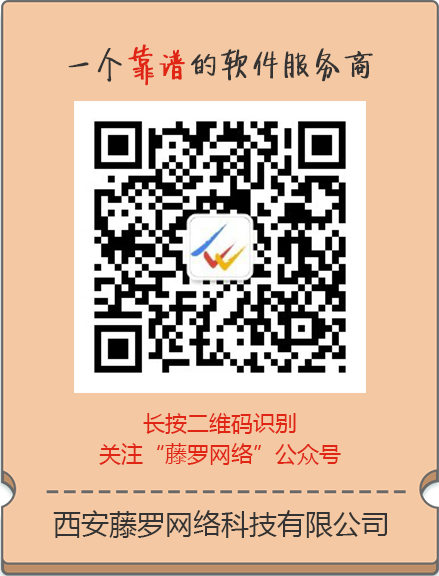
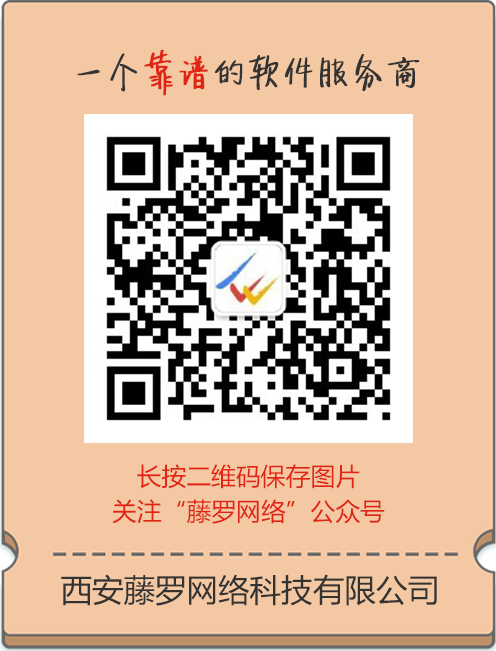
bug

diff --git a/src/pages/aboutus/aboutus.vue b/src/pages/aboutus/aboutus.vue
@@ -14,7 +14,7 @@
         <p>TEL：029-81101859</p>
       </div>
       <div class="model" v-if="seen" @click="show1()">
-        <div class="aboutcompany" @click.stop="show()" ><image bindtap="previewImage" src="/static/img/company_img.png"></image></div>
+        <div class="aboutcompany" @click.stop="show()" ><image v-on:longpress="previewImage" src="/static/img/company_img.png"></image></div>
       </div>
     </div>
 </template>
@@ -26,27 +26,32 @@
         data(){
             return {
               seen:false,
+              timestart:'',
+              scene:'https://policy.lifeonway.com/upload/community/2018-06-06_60ba9c6ed23bd84167425d48507d3589.png',
             }
         },
         methods: {
           companyclick(){
-              this.seen=true;
+            this.seen = true;
           },
           show1(){
-            this.seen=false;
+            this.seen = false;
             event.cancelBubble = true;
           },
           show(e){
-            this.seen=true;
+            this.seen = true;
           },
-          previewImage(){
+          previewImage: function (e) {
             wx.previewImage({
-              current: this.data.imgalist, // 当前显示图片的http链接
-              urls: this.data.imgalist // 需要预览的图片http链接列表
+              urls: this.scene.split(',')
+              // 需要预览的图片http链接  使用split把字符串转数组。不然会报错
             })
+          },
+          components: {},
+          onLoad: function () {
+            this.seen = false;
           }
-        },
-        components: {}
+        }
 
     }
 </script>

diff --git a/src/pages/paysuccess/paysuccess.vue b/src/pages/paysuccess/paysuccess.vue
@@ -11,7 +11,7 @@
           <div class="result_text">
             感谢您的支持,您的满意是我们最大的追求
           </div>
-          <a href="/pages/itemshop/main?ispay=true"><div class="result_btn">查看我的背包</div></a>
+          <navigator href="/pages/itemshop/main?ispay=true" open-type = "redirect"><div class="result_btn">查看我的背包</div></navigator>
         </div>
       </div>
       <div class="submitResult_error hide" v-if="isshow">
@@ -25,7 +25,7 @@
           <div class="result_text">
             对不起,您的操作失败!再去看看吧
           </div>
-          <a href="/pages/itemshop/main?ispay=true"><div class="result_btn">查看我的背包</div></a>
+          <navigator href="/pages/itemshop/main?ispay=true" open-type = "redirect"><div class="result_btn">查看我的背包</div></navigator>
         </div>
       </div>
     </div>
